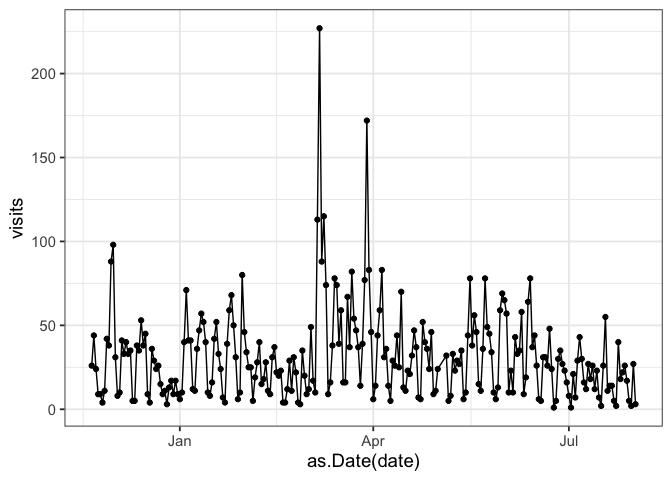
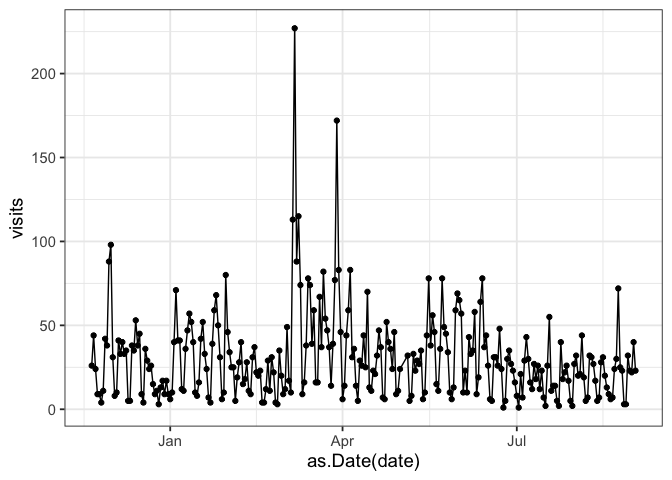
update stats

diff --git a/README.md b/README.md
@@ -23,9 +23,9 @@ This repository contains code and data on metrics for the OSF project,
 
 ## Stats
 
-This README last generated on **2023-08-01**.
+This README last generated on **2023-09-01**.
 
-Most recent data gathered on **2023-08-01**.
+Most recent data gathered on **2023-09-01**.
 
 ### Downloads
 
@@ -40,12 +40,12 @@ downloads_file %>%
 
 | file                                                            | downloads |
 |:----------------------------------------------------------------|----------:|
-| Data Management and Sharing Plan Checklist for Researchers.docx |       220 |
-| 2022-10-26_ExampleDMSP_annotated.pdf                            |       192 |
+| Data Management and Sharing Plan Checklist for Researchers.docx |       222 |
+| 2022-10-26_ExampleDMSP_annotated.pdf                            |       199 |
 | Policy Readiness Checklist for Librarians.docx                  |        60 |
 | Data Terms related to the NIH DMS Plan and Policy.docx          |        38 |
-| Extended Reference for DMSP Checklist.docx                      |        30 |
-| Example_DMSP_Metadata.xlsx                                      |        20 |
+| Extended Reference for DMSP Checklist.docx                      |        31 |
+| Example_DMSP_Metadata.xlsx                                      |        21 |
 | Grant Speak in Context.docx                                     |        15 |
 | Grant Glossary for Librarians.docx                              |        14 |
 | Working Group on NIH DMSP Guidance - template.docx              |         4 |
